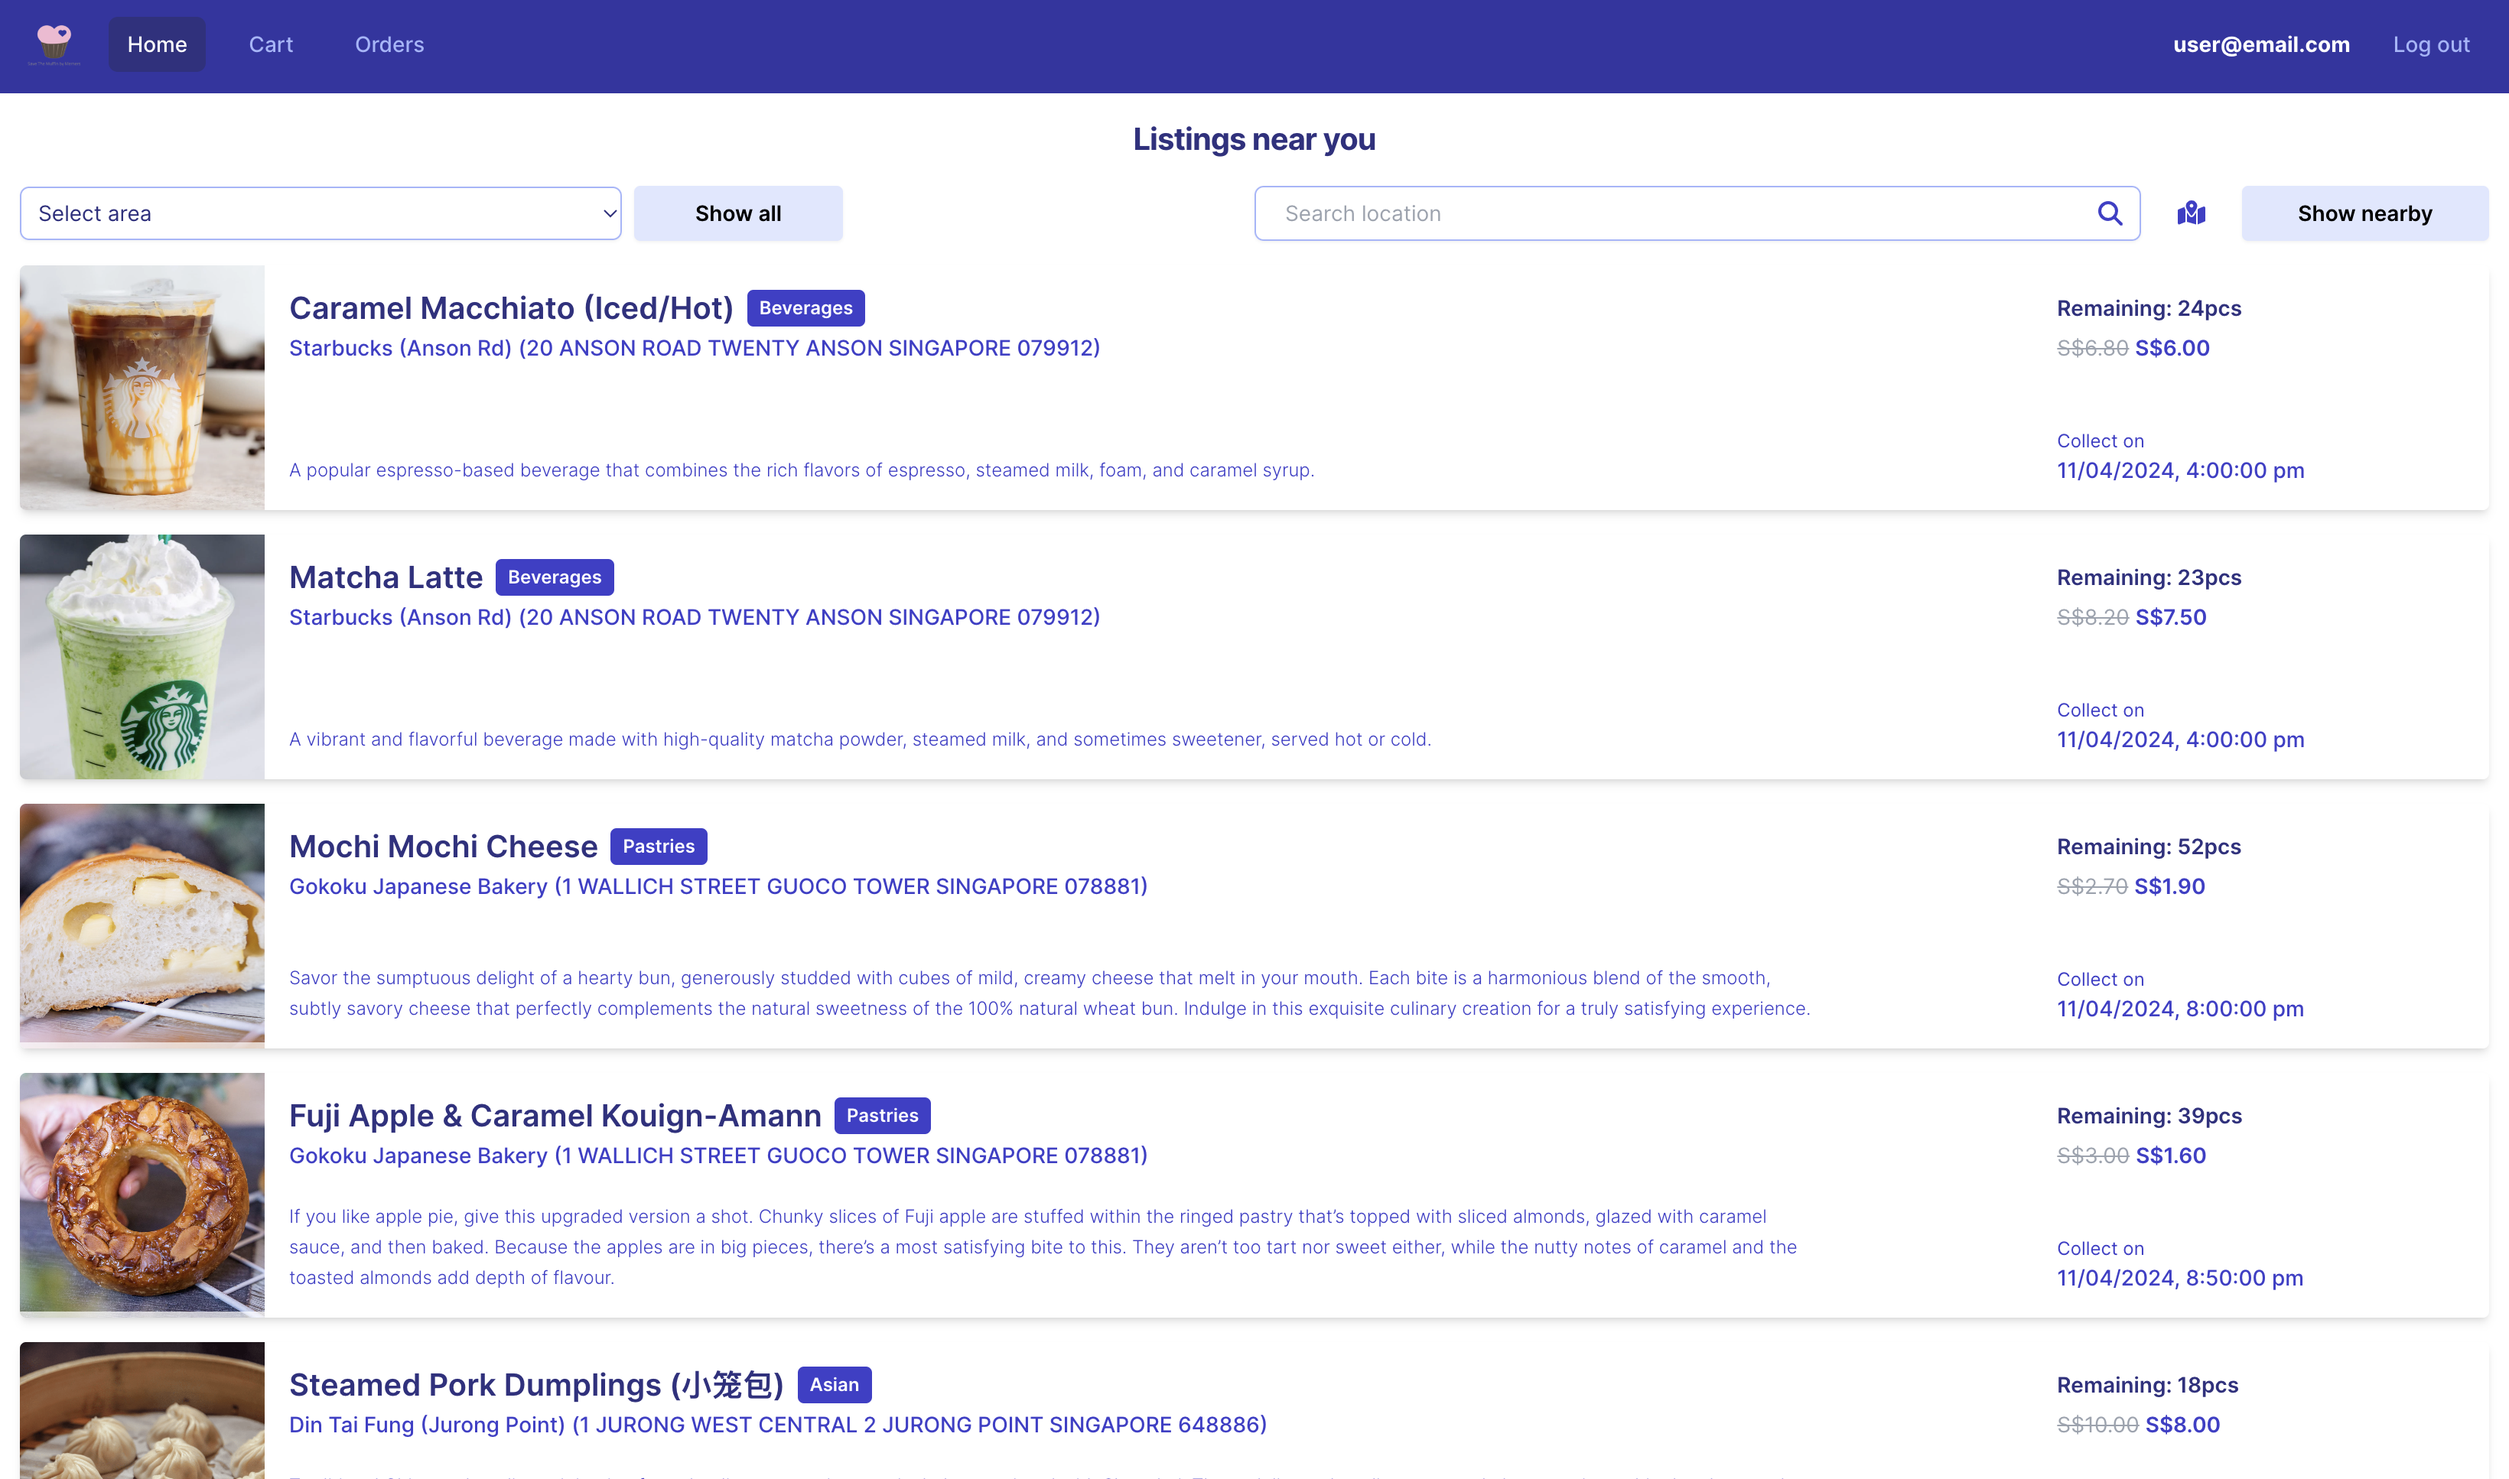
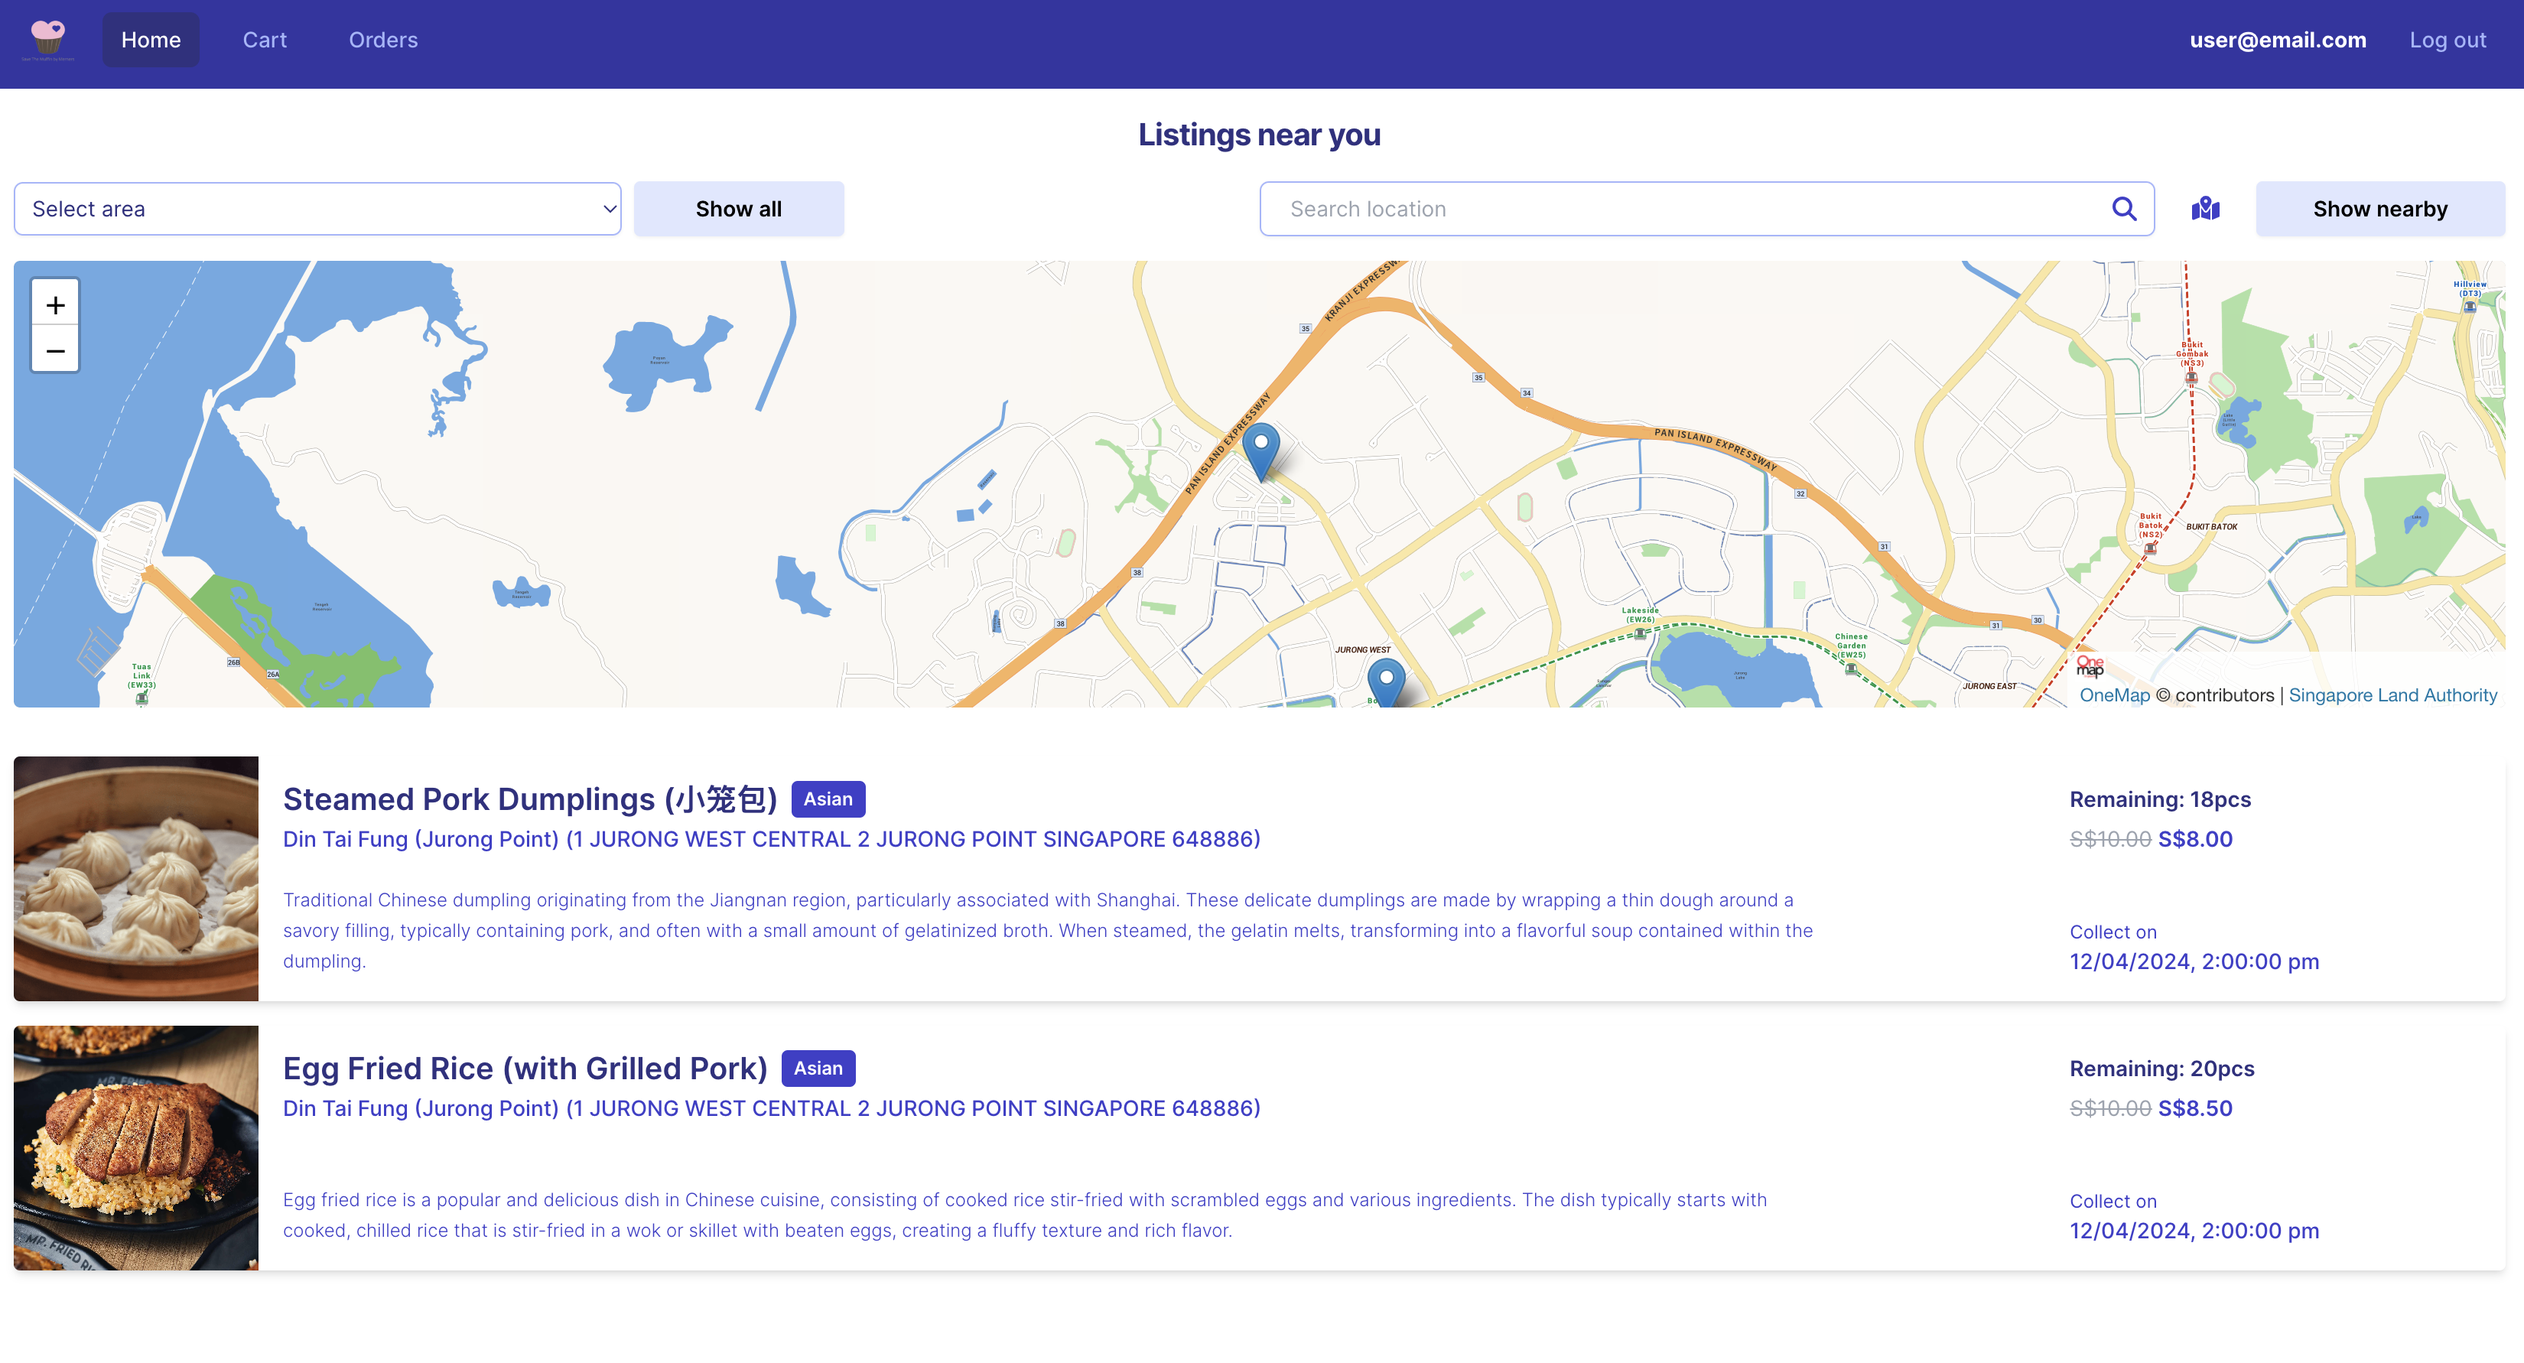
Update README.md with updated screenshots

diff --git a/README.md b/README.md
@@ -35,13 +35,17 @@ Please enable location services before using our app for optimum experience.
 
 2. The user will be able to search for listings nearby a specified location using the search bar. A map will be displayed showing the user's current location relative to nearby listings in the vicinity. The user can either click on the locator on the map _or_ the listing itself to view further information regarding the listing in a pop-up modal.
 
-![map locator](./screenshots/map-locator.png)
+![search by input](./screenshots/search-by-input.png)
+
+![user location on map](./screenshots/user-location-on-map.png)
+
+![listings-on-map](./screenshots/listings-on-map.png)
+
+3. Alternatively, the user can filter for listings based on areas of Singapore in a dropdown menu _or_ simply see all listings available presently. The map will not show if the user searches for listings via this method.
 
 ![search by area](./screenshots/search-by-area.png)
 
 ![show all listings](./screenshots/show-all-listings.png)
-
-3. Alternatively, the user can filter for listings based on areas of Singapore in a dropdown menu _or_ simply see all listings available presently. The map will not show if the user searches for listings via this method.
 
 4. When the listing modal pops up, the user can add the listing to cart, limited by the quantity made available by the merchant.
 
@@ -73,7 +77,7 @@ Please enable location services before using our app for optimum experience.
 
 ![merchant order history](./screenshots/merchant-order-history.png)
 
-4. On the user-side of the app, when the merchant indicates that an order has been collected, the order will move from the user's "Active Orders" tab to the "Order History" tab. If an order is not collected by the specified collection date, this will be reflected in the user's "Order History" tab, as status "Uncollected".
+4. On the user-side of the app, when the merchant indicates that an order has been collected, the order will move from the user's "Active Orders" tab to the "Order History" tab. If an order is not collected by the specified collection date, this will be reflected in the user's "Order History" tab, as status "Not Collected".
 
 ![user-order-uncollected](./screenshots/user-order-uncollected.png)
 
